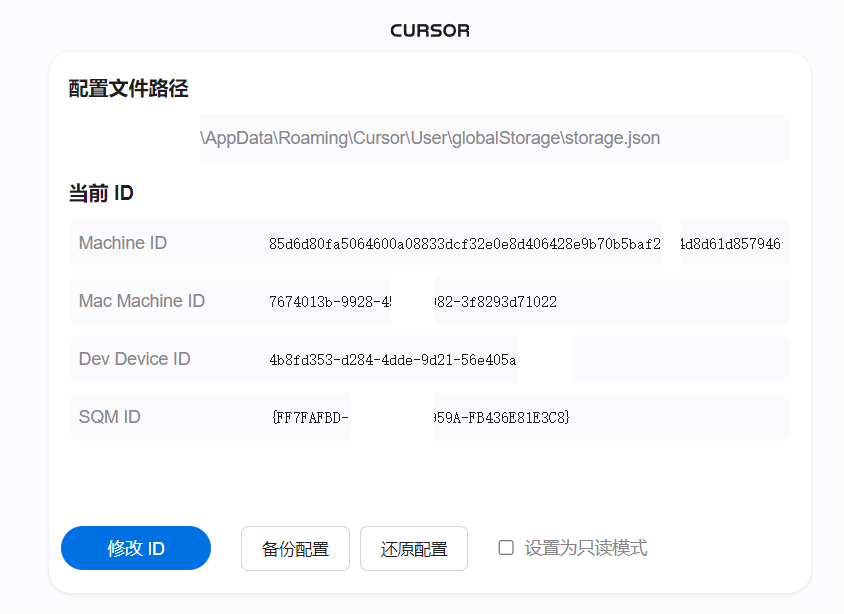
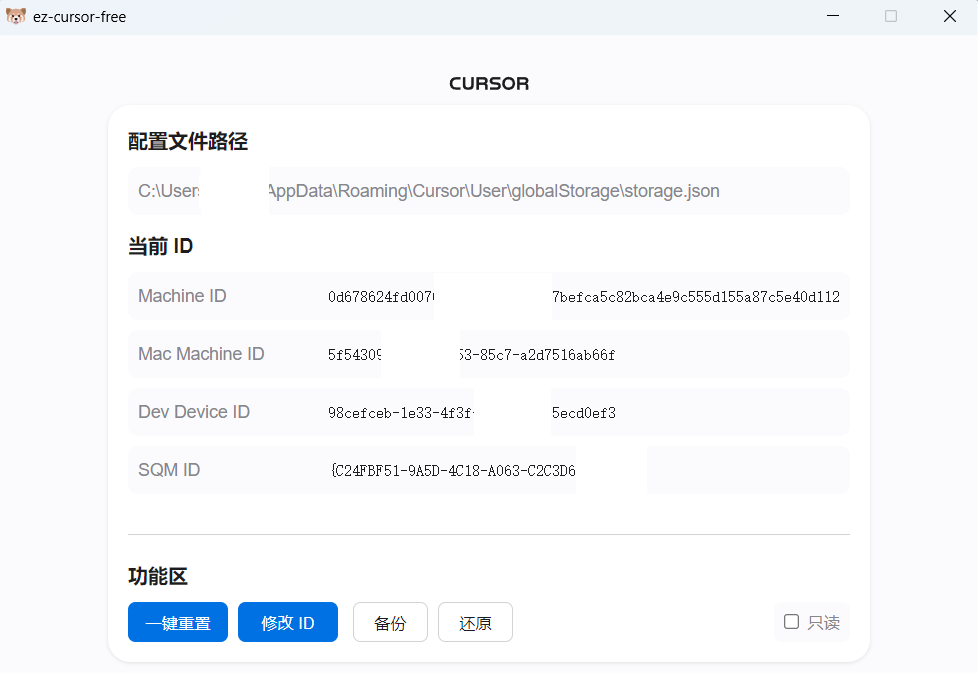
✨ feat: sign-cursor

diff --git a/src/renderer/src/App.vue b/src/renderer/src/App.vue
@@ -14,7 +14,7 @@ const isLoading = ref(false)
 const message = ref('')
 const setReadOnly = ref(false)
 const messageTimer = ref<ReturnType<typeof setTimeout> | null>(null)
-const messageType = ref<'success' | 'error' | 'warning'>('success')
+const messageType = ref<'success' | 'error' | 'warning' | 'info'>('success')
 const backupExists = ref(false)
 const updateInfo = ref<{
   hasUpdate: boolean
@@ -22,11 +22,9 @@ const updateInfo = ref<{
   downloadUrl: string
   releaseNotes: string
 } | null>(null)
-const keepAliveOutput = ref<string[]>([])
 const isKeepAliveRunning = ref(false)
-const keepAliveStatus = ref<{ type: string; message: string } | null>(null)
 
-const showMessage = (msg: string, type: 'success' | 'error' | 'warning' = 'success') => {
+const showMessage = (msg: string, type: 'success' | 'error' | 'warning' | 'info' = 'success') => {
   message.value = msg
   messageType.value = type
   if (messageTimer.value) {
@@ -184,26 +182,26 @@ const openReleasePage = async () => {
 const startKeepAlive = async () => {
   try {
     isKeepAliveRunning.value = true
-    showMessage('正在启动保活程序...', 'info')
+    showMessage('正在启动重置程序...', 'info')
     
     window.electron.ipcRenderer.on('keep-alive-output', (_, message) => {
       if (message.includes('注册成功')) {
-        showMessage('保活成功！', 'success')
+        showMessage('重置成功！', 'success')
       } else if (message.includes('开始')) {
-        showMessage('正在执行保活...', 'info')
+        showMessage('正在执行重置...', 'info')
       }
     })
     
     window.electron.ipcRenderer.on('keep-alive-error', (_, message) => {
-      showMessage('保活执行出错: ' + message, 'error')
+      showMessage('重置执行出错: ' + message, 'error')
     })
     
     const result = await window.electron.ipcRenderer.invoke('start-keep-alive')
     
     if (result.success) {
-      showMessage('保活程序执行成功', 'success')
+      showMessage('重置程序执行成功', 'success')
     } else {
-      showMessage(result.error || '保活程序执行失败', 'error')
+      showMessage(result.error || '重置程序执行失败', 'error')
     }
   } catch (error) {
     const err = error as Error
@@ -316,7 +314,8 @@ loadCurrentIds()
       <div class="message" :class="{ 
         'show': message, 
         'error': messageType === 'error',
-        'warning': messageType === 'warning'
+        'warning': messageType === 'warning',
+        'info': messageType === 'info'
       }">
         <svg class="message-icon" viewBox="0 0 24 24">
           <path v-if="messageType === 'success'" d="M12 2C6.48 2 2 6.48 2 12s4.48 10 10 10 10-4.48 10-10S17.52 2 12 2zm0 18c-4.41 0-8-3.59-8-8s3.59-8 8-8 8 3.59 8 8-3.59 8-8 8zm4.59-12.42L10 14.17l-2.59-2.58L6 13l4 4 8-8z"/>
@@ -1031,6 +1030,17 @@ h2 {
 .function-grid,
 .function-item,
 .toggle-section {
+  display: none;
+}
+
+/* 添加 info 类型的消息样式 */
+.message.info {
+  background: var(--apple-blue);
+}
+
+/* 移除未使用的样式 */
+.keep-alive-log,
+.status-text {
   display: none;
 }
 </style>

diff --git a/src/main/index.ts b/src/main/index.ts
@@ -3,7 +3,7 @@ import { join, dirname } from 'path'
 import { electronApp, optimizer, is } from '@electron-toolkit/utils'
 import icon from '../../resources/icon.png?asset'
 import { homedir } from 'os'
-import { existsSync, readFileSync, writeFileSync, chmodSync, statSync, copyFileSync, readdirSync, mkdirSync as mkdir } from 'fs'
+import { existsSync, readFileSync, writeFileSync, chmodSync, statSync, copyFileSync, mkdirSync as mkdir } from 'fs'
 import { platform } from 'os'
 import { StorageData, ModifyResult, CurrentIds } from './types'
 import { compare } from 'semver'
@@ -401,7 +401,7 @@ async function checkForUpdates(): Promise<{
 
 // 修改 copyExtensionFiles 函数
 function copyExtensionFiles() {
-  const srcExtDir = join(__dirname, '../../workspace/turnstilePatch')
+  // 直接使用目标目录，不需要源目录
   const destExtDir = join(app.getPath('userData'), 'turnstilePatch')
   
   try {

diff --git a/README.md b/README.md
@@ -1,8 +1,9 @@
 # 🚀 Ez2 Use Cursor Free Tools
 
-> 
+> 一个能够帮你自动注册、刷新token、修改机器ID的工具
 
 ⚠ This tool is only available to those who are unable to pay but urgently need to use it.
+
 
 <div align="center">
 
@@ -12,7 +13,6 @@
 
 [![Stars](https://img.shields.io/github/stars/GalacticDevOps/ez-cursor-free?style=flat-square&logo=github)](https://github.com/GalacticDevOps/ez-cursor-free/stargazers)
 [![Build Release](https://github.com/GalacticDevOps/ez-cursor-free/actions/workflows/release.yml/badge.svg)](https://github.com/GalacticDevOps/ez-cursor-free/actions/workflows/release.yml)
-
 [![Issues](https://img.shields.io/github/issues/GalacticDevOps/ez-cursor-free)](https://github.com/GalacticDevOps/ez-cursor-free/issues)
 
 [🌏 中文](#-chinese) | [🌟 English](#-english)
@@ -31,57 +31,159 @@
 
 # 🌏 Chinese
 
-一个帮助你管理 Cursor 机器ID 的简单工具。
+### 📝 问题描述
+
+> 当看到以下提示时重置Cursor试用期：
+
+```text
+Too many free trial accounts used on this machine.
+Please upgrade to pro. We have this limit in place
+to prevent abuse. Please let us know if you believe
+this is a mistake.
+```
+
+> 如果看到以下提示：
+```text
+You've reached your trial request limit.
+```
+> 这表示在VIP免费试用期间已达到使用次数限制。解决方案：
+> - 注销当前账号并重新注册
+> - 更换新的账号
+
+### 💻 系统支持
+
+<div align="center">
+<table>
+<tr>
+<td>
+
+**Windows** ✅
+- x64 (64-bit)
+- x86 (32-bit)
+
+</td>
+<td>
+
+**macOS** ✅
+- Intel (x64)
+- Apple Silicon (M1/M2)
+
+</td>
+<td>
+
+**Linux** ✅
+- x64 (64-bit)
+- x86 (32-bit)
+- ARM64
+
+</td>
+</tr>
+</table>
+</div>
 
 ## 功能特点
 
-- 🔄 一键生成新的机器 ID
+- 🔄 一键重置功能
+- 🎯 修改机器 ID
 - 🔒 支持设置配置文件只读模式
+- 💾 配置文件备份和还原
 - 🌓 支持浅色/深色主题
 - 💻 跨平台支持 (Windows, macOS, Linux)
-- 🎯 简单直观的界面
+- 🎨 简洁美观的界面
 
 ## 安装使用
 
 1. 从 [Releases](https://github.com/GalacticDevOps/ez-cursor-free/releases) 页面下载最新版本
 2. 安装并运行应用
-3. 点击"修改 ID"生成新的 ID
+3. 根据需要使用相应功能
 4. 重启 Cursor 以应用更改
+
+### 📦 手动安装
+
+> 从 [releases](https://github.com/GalacticDevOps/ez-cursor-free/releases/latest) 页面下载适合您系统的文件
 
 ## 注意事项
 
-- 修改 ID 前请确保已关闭 Cursor
+- 使用功能前请确保已关闭 Cursor
 - 建议修改后将配置文件设为只读模式
 - 如遇问题请查看错误提示或提交 Issue
 
 # 🌟 English
 
-A simple tool to help you manage Cursor machine IDs.
+### 📝 Description
+
+> Resets Cursor's free trial limitation when you see:
+
+```text
+Too many free trial accounts used on this machine.
+Please upgrade to pro. We have this limit in place
+to prevent abuse. Please let us know if you believe
+this is a mistake.
+```
+
+> If you see this message:
+```text
+You've reached your trial request limit.
+```
+> This means you've reached the usage limit during the VIP free trial period. Solutions:
+> - Log out and register a new account
+> - Switch to a different account
+
+### 💻 System Support
+
+<div align="center">
+<table>
+<tr>
+<td>
+
+**Windows** ✅
+- x64 (64-bit)
+- x86 (32-bit)
+
+</td>
+<td>
+
+**macOS** ✅
+- Intel (x64)
+- Apple Silicon (M1/M2)
+
+</td>
+<td>
+
+**Linux** ✅
+- x64 (64-bit)
+- x86 (32-bit)
+- ARM64
+
+</td>
+</tr>
+</table>
+</div>
 
 ## Features
 
-- 🔄 Generate new machine IDs with one click
+- 🔄 One-click reset function
+- 🎯 Modify machine IDs
 - 🔒 Set configuration file to read-only mode
+- 💾 Configuration backup and restore
 - 🌓 Support light/dark mode
 - 💻 Cross-platform support (Windows, macOS, Linux)
-- 🎯 Simple and intuitive interface
+- 🎨 Clean and beautiful interface
 
 ## Installation
 
 1. Download the latest release from the [Releases](https://github.com/GalacticDevOps/ez-cursor-free/releases) page
 2. Install and run the application
-3. Click "Modify ID" to generate new IDs
+3. Use the features as needed
 4. Restart Cursor to apply changes
 
 ### 📦 Manual Installation
 
 > Download the appropriate file for your system from [releases](https://github.com/GalacticDevOps/ez-cursor-free/releases/latest)
 
-## ⭐  Star History or Repobeats
+## ⭐ Star History
 
 [![Star History Chart](https://api.star-history.com/svg?repos=GalacticDevOps/ez-cursor-free&type=Date)](https://star-history.com/#GalacticDevOps/ez-cursor-free&Date)
-
-![Alt](https://repobeats.axiom.co/api/embed/e093d035f86c7cc57f690c634df67bcf821455df.svg "Repobeats analytics image")
 
 ## Contributors
 

diff --git a/CHANGELOG.md b/CHANGELOG.md
@@ -5,6 +5,23 @@ All notable changes to this project will be documented in this file.
 The format is based on [Keep a Changelog](https://keepachangelog.com/en/1.0.0/),
 and this project adheres to [Semantic Versioning](https://semver.org/spec/v2.0.0.html).
 
+## [1.0.2] - 2024-01-10
+
+### Added
+- 新增一键重置功能
+- 优化界面布局和交互体验
+- 改进错误提示和状态反馈
+
+### Changed
+- 优化按钮布局和样式
+- 改进功能区域的组织方式
+- 简化操作流程
+
+### Fixed
+- 修复中文显示乱码问题
+- 修复插件加载相关问题
+- 修复一些已知的界面问题
+
 ## [1.0.1-beta3] - 2024-12-26
 
 ### Fixed
